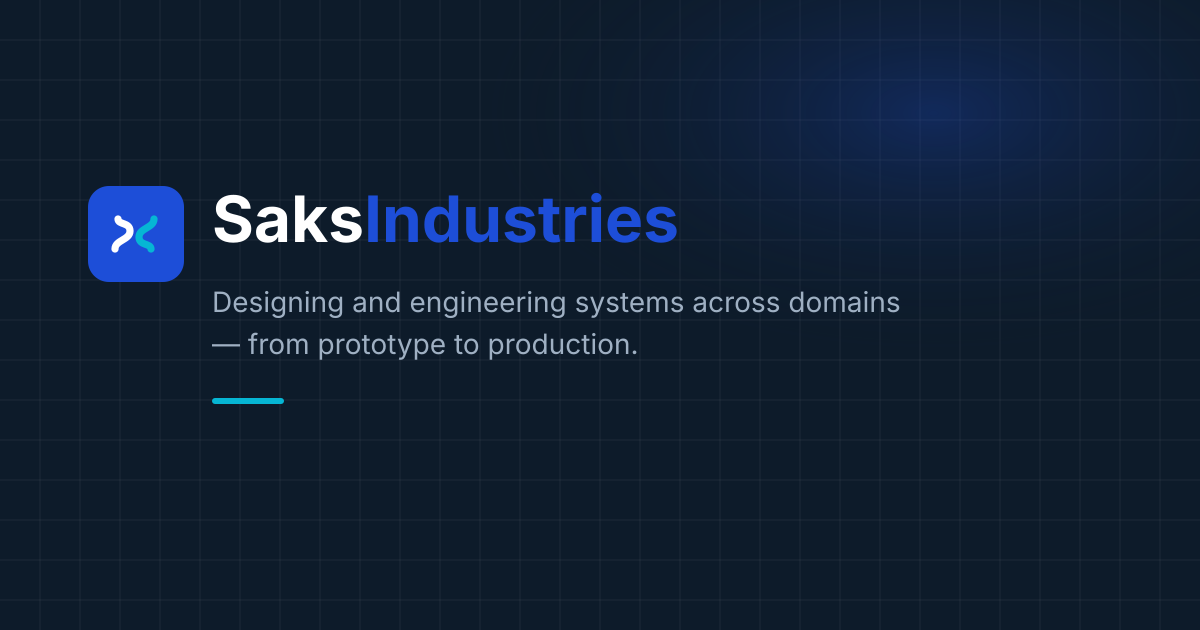
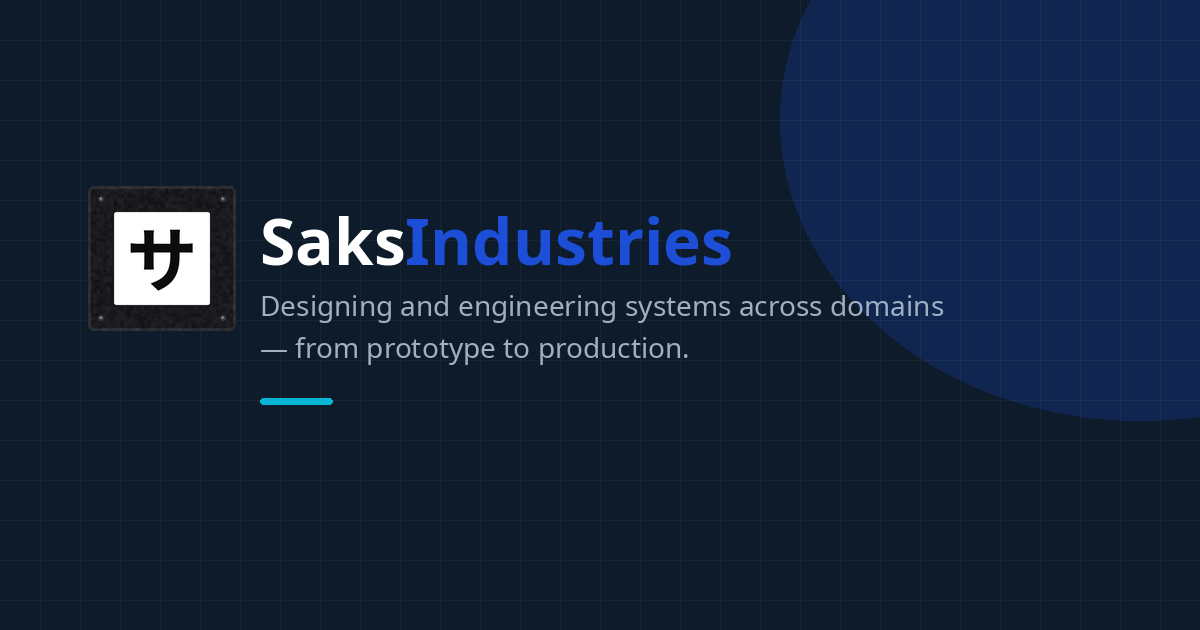
公式のサ銘板をヘッダー、フッター、アイコン、共有画像に使う
紺とシアンの自作マークを石目の銘板ラスターに置き換える。日本語の横組みは390pxのヘッダー1行に収まらないため、文字のワードマークは残す。

Changed region(s): [[0.0617, 0.0, 1.0, 0.6937], [0.6475, 0.0, 0.74, 0.0302], [0.185, 0.6333, 0.2775, 0.6635]]

diff --git a/site/assets/i18n.js b/site/assets/i18n.js
@@ -26,7 +26,8 @@
     "footer.privacy": "プライバシーポリシー",
     "footer.terms": "利用規約",
     "footer.news": "ニュース",
-    "footer.copyright": "© 2026 Saks Industries LLC. All rights reserved.",
+    "brand.home": "サックス・インダストリーズ合同会社のホーム",
+    "footer.copyright": "© 2026 サックス・インダストリーズ合同会社",
     "cta.getintouch": "お問い合わせ",
     "cta.viewproducts": "製品を見る",
     "cta.getquote": "見積もりを依頼",
@@ -37,8 +38,8 @@
     "about.desc": "Saks Industries は、分野を越えて動くシステムをつくるエンジニア、デザイナー、オペレーターのチームです。",
     "products.desc": "運用の現実に合わせて構成するシステム製品です。まずはお見積もりをご依頼ください。",
     "contact.desc": "プロジェクト、見積もり、パートナーシップについて Saks Industries へお問い合わせください。",
-    "privacy.desc": "Saks Industries LLC のプライバシーポリシー。",
-    "terms.desc": "Saks Industries LLC の利用規約。",
+    "privacy.desc": "サックス・インダストリーズ合同会社のプライバシーポリシー。",
+    "terms.desc": "サックス・インダストリーズ合同会社の利用規約。",
 
     // home
     "home.title": "Saks Industries — 多分野のためのシステム",
@@ -128,7 +129,7 @@
     "privacy.updated": "最終更新：2026年8月",
     "privacy.notice": "本ポリシーは個人情報の保護に関する法律（個人情報保護法）に基づく暫定文書であり、正式公表前に法務レビューを受ける予定です。",
     "privacy.s1.h": "1. 個人情報取扱事業者",
-    "privacy.s1.p": "Saks Industries LLC（以下「当社」）が本ポリシーに責任を持つ個人情報取扱事業者です。お問い合わせ先：hello@saks.industries",
+    "privacy.s1.p": "サックス・インダストリーズ合同会社（以下「当社」）が本ポリシーに責任を持つ個人情報取扱事業者です。お問い合わせ先：hello@saks.industries",
     "privacy.s2.h": "2. 収集する個人情報",
     "privacy.s2.p": "当社は、お問い合わせフォームまたはその他の手段でご連絡いただく際に、お名前・メールアドレス・メッセージ内容などの個人情報をご提供いただく場合があります。",
     "privacy.s3.h": "3. 利用目的",
@@ -155,15 +156,15 @@
     "terms.s1.h": "1. 同意",
     "terms.s1.p": "本ウェブサイト（以下「本サイト」）にアクセスまたは利用することにより、本利用規約に同意したものとみなします。同意いただけない場合は、本サイトのご利用をお控えください。",
     "terms.s2.h": "2. 運営者",
-    "terms.s2.p": "本サイトはSaks Industries LLCが運営しています。お問い合わせ先：hello@saks.industries",
+    "terms.s2.p": "本サイトはサックス・インダストリーズ合同会社が運営しています。お問い合わせ先：hello@saks.industries",
     "terms.s3.h": "3. 利用条件",
     "terms.s3.p": "本サイトは合法的な目的にのみご利用ください。当社の書面による事前承諾なく、本サイトのコンテンツを複製・再配布・商業目的で利用することを禁じます。",
     "terms.s4.h": "4. 知的財産権",
-    "terms.s4.p": "本サイト上のすべてのコンテンツ（テキスト・画像・ロゴ・ソフトウェア等）は、Saks Industries LLCまたはそのライセンサーに帰属し、適用される知的財産法により保護されています。",
+    "terms.s4.p": "本サイト上のすべてのコンテンツ（テキスト・画像・ロゴ・ソフトウェア等）は、サックス・インダストリーズ合同会社またはそのライセンサーに帰属し、適用される知的財産法により保護されています。",
     "terms.s5.h": "5. 免責事項",
     "terms.s5.p": "本サイトは「現状有姿」で提供されます。当社は、本サイトの中断・誤り・有害なコンポーネントの不存在について、明示・黙示を問わず保証しません。",
     "terms.s6.h": "6. 責任の制限",
-    "terms.s6.p": "適用法令が許容する範囲において、Saks Industries LLCは本サイトのご利用に起因する間接的・付随的・結果的損害について責任を負いません。",
+    "terms.s6.p": "適用法令が許容する範囲において、サックス・インダストリーズ合同会社は本サイトのご利用に起因する間接的・付随的・結果的損害について責任を負いません。",
     "terms.s7.h": "7. 準拠法・管轄裁判所",
     "terms.s7.p": "本規約は日本法に準拠します。紛争が生じた場合、東京地方裁判所を第一審の専属的合意管轄裁判所とします。",
     "terms.s8.h": "8. 変更",
@@ -188,6 +189,7 @@
   // Capture the authored English so we can restore it when toggling back.
   var enText = new WeakMap();
   var enAttr = new WeakMap();
+  var enAria = new WeakMap();
 
   function apply(lang) {
     document.documentElement.lang = lang;
@@ -208,6 +210,12 @@
       var key = el.getAttribute("data-i18n-content");
       if (!enAttr.has(el)) enAttr.set(el, el.getAttribute("content") || "");
       el.setAttribute("content", (lang === "ja" && JA[key] != null) ? JA[key] : enAttr.get(el));
+    });
+
+    document.querySelectorAll("[data-i18n-aria]").forEach(function (el) {
+      var key = el.getAttribute("data-i18n-aria");
+      if (!enAria.has(el)) enAria.set(el, el.getAttribute("aria-label") || "");
+      el.setAttribute("aria-label", (lang === "ja" && JA[key] != null) ? JA[key] : enAria.get(el));
     });
 
     var ogLocale = document.querySelector('meta[property="og:locale"]');

diff --git a/site/index.html b/site/index.html
@@ -24,9 +24,10 @@
   <meta name="twitter:image:alt" content="Saks Industries" />
   <link rel="preconnect" href="https://fonts.googleapis.com" />
   <link rel="stylesheet" href="assets/styles.css" />
-  <link rel="icon" href="assets/favicon.svg" type="image/svg+xml" />
-  <link rel="icon" href="assets/favicon-32.png" type="image/png" sizes="32x32" />
-  <link rel="apple-touch-icon" href="assets/apple-touch-icon.png" />
+  <link rel="icon" href="assets/saks-mark-32.png" type="image/png" sizes="32x32" />
+  <link rel="icon" href="assets/saks-mark-192.png" type="image/png" sizes="192x192" />
+  <link rel="icon" href="assets/saks-mark-512.png" type="image/png" sizes="512x512" />
+  <link rel="apple-touch-icon" href="assets/saks-mark-180.png" sizes="180x180" />
 </head>
 <body>
   <a class="skip-link" href="#main">Skip to content</a>
@@ -34,8 +35,8 @@
   <!-- ============ Shared header / nav ============ -->
   <header class="site-header">
     <div class="container nav">
-      <a class="brand" href="index.html" aria-label="Saks Industries home">
-        <svg class="brand-mark" viewBox="0 0 32 32" aria-hidden="true"><rect width="32" height="32" rx="7" fill="#1d4ed8"/><path d="M9 21c0-3 5-3 5-6s-4-2-4-4" stroke="white" stroke-width="2.4" fill="none" stroke-linecap="round"/><path d="M22 11c0 3-5 3-5 6s4 2 4 4" stroke="#06b6d4" stroke-width="2.4" fill="none" stroke-linecap="round"/></svg>
+      <a class="brand" href="index.html" aria-label="Saks Industries home" data-i18n-aria="brand.home">
+        <img class="brand-mark" src="assets/saks-mark.png" alt="" aria-hidden="true" width="40" height="40" decoding="async" />
         <span class="brand-name">Saks<span>Industries</span></span>
       </a>
       <button class="nav-toggle" type="button" aria-expanded="false" aria-controls="site-nav">
@@ -162,8 +163,8 @@
     <div class="container">
       <div class="footer-grid">
         <div>
-          <a class="brand" href="index.html" aria-label="Saks Industries home">
-            <svg class="brand-mark" viewBox="0 0 32 32" aria-hidden="true"><rect width="32" height="32" rx="7" fill="#1d4ed8"/><path d="M9 21c0-3 5-3 5-6s-4-2-4-4" stroke="white" stroke-width="2.4" fill="none" stroke-linecap="round"/><path d="M22 11c0 3-5 3-5 6s4 2 4 4" stroke="#06b6d4" stroke-width="2.4" fill="none" stroke-linecap="round"/></svg>
+          <a class="brand" href="index.html" aria-label="Saks Industries home" data-i18n-aria="brand.home">
+            <img class="brand-mark" src="assets/saks-mark.png" alt="" aria-hidden="true" width="40" height="40" decoding="async" />
             <span class="brand-name">Saks<span>Industries</span></span>
           </a>
           <p class="footer-desc" data-i18n="footer.tagline">Designing and engineering systems across domains — from prototype to production.</p>

diff --git a/site/about.html b/site/about.html
@@ -23,17 +23,18 @@
   <meta name="twitter:image" content="https://saks-industries.github.io/saks-corporate-netlify/assets/og.png" />
   <meta name="twitter:image:alt" content="Saks Industries" />
   <link rel="stylesheet" href="assets/styles.css" />
-  <link rel="icon" href="assets/favicon.svg" type="image/svg+xml" />
-  <link rel="icon" href="assets/favicon-32.png" type="image/png" sizes="32x32" />
-  <link rel="apple-touch-icon" href="assets/apple-touch-icon.png" />
+  <link rel="icon" href="assets/saks-mark-32.png" type="image/png" sizes="32x32" />
+  <link rel="icon" href="assets/saks-mark-192.png" type="image/png" sizes="192x192" />
+  <link rel="icon" href="assets/saks-mark-512.png" type="image/png" sizes="512x512" />
+  <link rel="apple-touch-icon" href="assets/saks-mark-180.png" sizes="180x180" />
 </head>
 <body>
   <a class="skip-link" href="#main">Skip to content</a>
 
   <header class="site-header">
     <div class="container nav">
-      <a class="brand" href="index.html" aria-label="Saks Industries home">
-        <svg class="brand-mark" viewBox="0 0 32 32" aria-hidden="true"><rect width="32" height="32" rx="7" fill="#1d4ed8"/><path d="M9 21c0-3 5-3 5-6s-4-2-4-4" stroke="white" stroke-width="2.4" fill="none" stroke-linecap="round"/><path d="M22 11c0 3-5 3-5 6s4 2 4 4" stroke="#06b6d4" stroke-width="2.4" fill="none" stroke-linecap="round"/></svg>
+      <a class="brand" href="index.html" aria-label="Saks Industries home" data-i18n-aria="brand.home">
+        <img class="brand-mark" src="assets/saks-mark.png" alt="" aria-hidden="true" width="40" height="40" decoding="async" />
         <span class="brand-name">Saks<span>Industries</span></span>
       </a>
       <button class="nav-toggle" type="button" aria-expanded="false" aria-controls="site-nav">
@@ -118,8 +119,8 @@
     <div class="container">
       <div class="footer-grid">
         <div>
-          <a class="brand" href="index.html" aria-label="Saks Industries home">
-            <svg class="brand-mark" viewBox="0 0 32 32" aria-hidden="true"><rect width="32" height="32" rx="7" fill="#1d4ed8"/><path d="M9 21c0-3 5-3 5-6s-4-2-4-4" stroke="white" stroke-width="2.4" fill="none" stroke-linecap="round"/><path d="M22 11c0 3-5 3-5 6s4 2 4 4" stroke="#06b6d4" stroke-width="2.4" fill="none" stroke-linecap="round"/></svg>
+          <a class="brand" href="index.html" aria-label="Saks Industries home" data-i18n-aria="brand.home">
+            <img class="brand-mark" src="assets/saks-mark.png" alt="" aria-hidden="true" width="40" height="40" decoding="async" />
             <span class="brand-name">Saks<span>Industries</span></span>
           </a>
           <p class="footer-desc" data-i18n="footer.tagline">Designing and engineering systems across domains — from prototype to production.</p>

diff --git a/site/contact.html b/site/contact.html
@@ -23,17 +23,18 @@
   <meta name="twitter:image" content="https://saks-industries.github.io/saks-corporate-netlify/assets/og.png" />
   <meta name="twitter:image:alt" content="Saks Industries" />
   <link rel="stylesheet" href="assets/styles.css" />
-  <link rel="icon" href="assets/favicon.svg" type="image/svg+xml" />
-  <link rel="icon" href="assets/favicon-32.png" type="image/png" sizes="32x32" />
-  <link rel="apple-touch-icon" href="assets/apple-touch-icon.png" />
+  <link rel="icon" href="assets/saks-mark-32.png" type="image/png" sizes="32x32" />
+  <link rel="icon" href="assets/saks-mark-192.png" type="image/png" sizes="192x192" />
+  <link rel="icon" href="assets/saks-mark-512.png" type="image/png" sizes="512x512" />
+  <link rel="apple-touch-icon" href="assets/saks-mark-180.png" sizes="180x180" />
 </head>
 <body>
   <a class="skip-link" href="#main">Skip to content</a>
 
   <header class="site-header">
     <div class="container nav">
-      <a class="brand" href="index.html" aria-label="Saks Industries home">
-        <svg class="brand-mark" viewBox="0 0 32 32" aria-hidden="true"><rect width="32" height="32" rx="7" fill="#1d4ed8"/><path d="M9 21c0-3 5-3 5-6s-4-2-4-4" stroke="white" stroke-width="2.4" fill="none" stroke-linecap="round"/><path d="M22 11c0 3-5 3-5 6s4 2 4 4" stroke="#06b6d4" stroke-width="2.4" fill="none" stroke-linecap="round"/></svg>
+      <a class="brand" href="index.html" aria-label="Saks Industries home" data-i18n-aria="brand.home">
+        <img class="brand-mark" src="assets/saks-mark.png" alt="" aria-hidden="true" width="40" height="40" decoding="async" />
         <span class="brand-name">Saks<span>Industries</span></span>
       </a>
       <button class="nav-toggle" type="button" aria-expanded="false" aria-controls="site-nav">
@@ -142,8 +143,8 @@
     <div class="container">
       <div class="footer-grid">
         <div>
-          <a class="brand" href="index.html" aria-label="Saks Industries home">
-            <svg class="brand-mark" viewBox="0 0 32 32" aria-hidden="true"><rect width="32" height="32" rx="7" fill="#1d4ed8"/><path d="M9 21c0-3 5-3 5-6s-4-2-4-4" stroke="white" stroke-width="2.4" fill="none" stroke-linecap="round"/><path d="M22 11c0 3-5 3-5 6s4 2 4 4" stroke="#06b6d4" stroke-width="2.4" fill="none" stroke-linecap="round"/></svg>
+          <a class="brand" href="index.html" aria-label="Saks Industries home" data-i18n-aria="brand.home">
+            <img class="brand-mark" src="assets/saks-mark.png" alt="" aria-hidden="true" width="40" height="40" decoding="async" />
             <span class="brand-name">Saks<span>Industries</span></span>
           </a>
           <p class="footer-desc" data-i18n="footer.tagline">Designing and engineering systems across domains — from prototype to production.</p>

diff --git a/site/privacy.html b/site/privacy.html
@@ -23,17 +23,18 @@
   <meta name="twitter:image" content="https://saks-industries.github.io/saks-corporate-netlify/assets/og.png" />
   <meta name="twitter:image:alt" content="Saks Industries" />
   <link rel="stylesheet" href="assets/styles.css" />
-  <link rel="icon" href="assets/favicon.svg" type="image/svg+xml" />
-  <link rel="icon" href="assets/favicon-32.png" type="image/png" sizes="32x32" />
-  <link rel="apple-touch-icon" href="assets/apple-touch-icon.png" />
+  <link rel="icon" href="assets/saks-mark-32.png" type="image/png" sizes="32x32" />
+  <link rel="icon" href="assets/saks-mark-192.png" type="image/png" sizes="192x192" />
+  <link rel="icon" href="assets/saks-mark-512.png" type="image/png" sizes="512x512" />
+  <link rel="apple-touch-icon" href="assets/saks-mark-180.png" sizes="180x180" />
 </head>
 <body>
   <a class="skip-link" href="#main">Skip to content</a>
 
   <header class="site-header">
     <div class="container nav">
-      <a class="brand" href="index.html" aria-label="Saks Industries home">
-        <svg class="brand-mark" viewBox="0 0 32 32" aria-hidden="true"><rect width="32" height="32" rx="7" fill="#1d4ed8"/><path d="M9 21c0-3 5-3 5-6s-4-2-4-4" stroke="white" stroke-width="2.4" fill="none" stroke-linecap="round"/><path d="M22 11c0 3-5 3-5 6s4 2 4 4" stroke="#06b6d4" stroke-width="2.4" fill="none" stroke-linecap="round"/></svg>
+      <a class="brand" href="index.html" aria-label="Saks Industries home" data-i18n-aria="brand.home">
+        <img class="brand-mark" src="assets/saks-mark.png" alt="" aria-hidden="true" width="40" height="40" decoding="async" />
         <span class="brand-name">Saks<span>Industries</span></span>
       </a>
       <button class="nav-toggle" type="button" aria-expanded="false" aria-controls="site-nav">
@@ -104,8 +105,8 @@
     <div class="container">
       <div class="footer-grid">
         <div>
-          <a class="brand" href="index.html" aria-label="Saks Industries home">
-            <svg class="brand-mark" viewBox="0 0 32 32" aria-hidden="true"><rect width="32" height="32" rx="7" fill="#1d4ed8"/><path d="M9 21c0-3 5-3 5-6s-4-2-4-4" stroke="white" stroke-width="2.4" fill="none" stroke-linecap="round"/><path d="M22 11c0 3-5 3-5 6s4 2 4 4" stroke="#06b6d4" stroke-width="2.4" fill="none" stroke-linecap="round"/></svg>
+          <a class="brand" href="index.html" aria-label="Saks Industries home" data-i18n-aria="brand.home">
+            <img class="brand-mark" src="assets/saks-mark.png" alt="" aria-hidden="true" width="40" height="40" decoding="async" />
             <span class="brand-name">Saks<span>Industries</span></span>
           </a>
           <p class="footer-desc" data-i18n="footer.tagline">Designing and engineering systems across domains — from prototype to production.</p>

diff --git a/site/terms.html b/site/terms.html
@@ -23,17 +23,18 @@
   <meta name="twitter:image" content="https://saks-industries.github.io/saks-corporate-netlify/assets/og.png" />
   <meta name="twitter:image:alt" content="Saks Industries" />
   <link rel="stylesheet" href="assets/styles.css" />
-  <link rel="icon" href="assets/favicon.svg" type="image/svg+xml" />
-  <link rel="icon" href="assets/favicon-32.png" type="image/png" sizes="32x32" />
-  <link rel="apple-touch-icon" href="assets/apple-touch-icon.png" />
+  <link rel="icon" href="assets/saks-mark-32.png" type="image/png" sizes="32x32" />
+  <link rel="icon" href="assets/saks-mark-192.png" type="image/png" sizes="192x192" />
+  <link rel="icon" href="assets/saks-mark-512.png" type="image/png" sizes="512x512" />
+  <link rel="apple-touch-icon" href="assets/saks-mark-180.png" sizes="180x180" />
 </head>
 <body>
   <a class="skip-link" href="#main">Skip to content</a>
 
   <header class="site-header">
     <div class="container nav">
-      <a class="brand" href="index.html" aria-label="Saks Industries home">
-        <svg class="brand-mark" viewBox="0 0 32 32" aria-hidden="true"><rect width="32" height="32" rx="7" fill="#1d4ed8"/><path d="M9 21c0-3 5-3 5-6s-4-2-4-4" stroke="white" stroke-width="2.4" fill="none" stroke-linecap="round"/><path d="M22 11c0 3-5 3-5 6s4 2 4 4" stroke="#06b6d4" stroke-width="2.4" fill="none" stroke-linecap="round"/></svg>
+      <a class="brand" href="index.html" aria-label="Saks Industries home" data-i18n-aria="brand.home">
+        <img class="brand-mark" src="assets/saks-mark.png" alt="" aria-hidden="true" width="40" height="40" decoding="async" />
         <span class="brand-name">Saks<span>Industries</span></span>
       </a>
       <button class="nav-toggle" type="button" aria-expanded="false" aria-controls="site-nav">
@@ -104,8 +105,8 @@
     <div class="container">
       <div class="footer-grid">
         <div>
-          <a class="brand" href="index.html" aria-label="Saks Industries home">
-            <svg class="brand-mark" viewBox="0 0 32 32" aria-hidden="true"><rect width="32" height="32" rx="7" fill="#1d4ed8"/><path d="M9 21c0-3 5-3 5-6s-4-2-4-4" stroke="white" stroke-width="2.4" fill="none" stroke-linecap="round"/><path d="M22 11c0 3-5 3-5 6s4 2 4 4" stroke="#06b6d4" stroke-width="2.4" fill="none" stroke-linecap="round"/></svg>
+          <a class="brand" href="index.html" aria-label="Saks Industries home" data-i18n-aria="brand.home">
+            <img class="brand-mark" src="assets/saks-mark.png" alt="" aria-hidden="true" width="40" height="40" decoding="async" />
             <span class="brand-name">Saks<span>Industries</span></span>
           </a>
           <p class="footer-desc" data-i18n="footer.tagline">Designing and engineering systems across domains — from prototype to production.</p>

diff --git a/site/products.html b/site/products.html
@@ -23,17 +23,18 @@
   <meta name="twitter:image" content="https://saks-industries.github.io/saks-corporate-netlify/assets/og.png" />
   <meta name="twitter:image:alt" content="Saks Industries" />
   <link rel="stylesheet" href="assets/styles.css" />
-  <link rel="icon" href="assets/favicon.svg" type="image/svg+xml" />
-  <link rel="icon" href="assets/favicon-32.png" type="image/png" sizes="32x32" />
-  <link rel="apple-touch-icon" href="assets/apple-touch-icon.png" />
+  <link rel="icon" href="assets/saks-mark-32.png" type="image/png" sizes="32x32" />
+  <link rel="icon" href="assets/saks-mark-192.png" type="image/png" sizes="192x192" />
+  <link rel="icon" href="assets/saks-mark-512.png" type="image/png" sizes="512x512" />
+  <link rel="apple-touch-icon" href="assets/saks-mark-180.png" sizes="180x180" />
 </head>
 <body>
   <a class="skip-link" href="#main">Skip to content</a>
 
   <header class="site-header">
     <div class="container nav">
-      <a class="brand" href="index.html" aria-label="Saks Industries home">
-        <svg class="brand-mark" viewBox="0 0 32 32" aria-hidden="true"><rect width="32" height="32" rx="7" fill="#1d4ed8"/><path d="M9 21c0-3 5-3 5-6s-4-2-4-4" stroke="white" stroke-width="2.4" fill="none" stroke-linecap="round"/><path d="M22 11c0 3-5 3-5 6s4 2 4 4" stroke="#06b6d4" stroke-width="2.4" fill="none" stroke-linecap="round"/></svg>
+      <a class="brand" href="index.html" aria-label="Saks Industries home" data-i18n-aria="brand.home">
+        <img class="brand-mark" src="assets/saks-mark.png" alt="" aria-hidden="true" width="40" height="40" decoding="async" />
         <span class="brand-name">Saks<span>Industries</span></span>
       </a>
       <button class="nav-toggle" type="button" aria-expanded="false" aria-controls="site-nav">
@@ -96,8 +97,8 @@
     <div class="container">
       <div class="footer-grid">
         <div>
-          <a class="brand" href="index.html" aria-label="Saks Industries home">
-            <svg class="brand-mark" viewBox="0 0 32 32" aria-hidden="true"><rect width="32" height="32" rx="7" fill="#1d4ed8"/><path d="M9 21c0-3 5-3 5-6s-4-2-4-4" stroke="white" stroke-width="2.4" fill="none" stroke-linecap="round"/><path d="M22 11c0 3-5 3-5 6s4 2 4 4" stroke="#06b6d4" stroke-width="2.4" fill="none" stroke-linecap="round"/></svg>
+          <a class="brand" href="index.html" aria-label="Saks Industries home" data-i18n-aria="brand.home">
+            <img class="brand-mark" src="assets/saks-mark.png" alt="" aria-hidden="true" width="40" height="40" decoding="async" />
             <span class="brand-name">Saks<span>Industries</span></span>
           </a>
           <p class="footer-desc" data-i18n="footer.tagline">Designing and engineering systems across domains — from prototype to production.</p>

diff --git a/site/404.html b/site/404.html
@@ -7,9 +7,10 @@
   <meta name="robots" content="noindex" />
   <meta name="theme-color" content="#1d4ed8" />
   <link rel="stylesheet" href="assets/styles.css" />
-  <link rel="icon" href="assets/favicon.svg" type="image/svg+xml" />
-  <link rel="icon" href="assets/favicon-32.png" type="image/png" sizes="32x32" />
-  <link rel="apple-touch-icon" href="assets/apple-touch-icon.png" />
+  <link rel="icon" href="assets/saks-mark-32.png" type="image/png" sizes="32x32" />
+  <link rel="icon" href="assets/saks-mark-192.png" type="image/png" sizes="192x192" />
+  <link rel="icon" href="assets/saks-mark-512.png" type="image/png" sizes="512x512" />
+  <link rel="apple-touch-icon" href="assets/saks-mark-180.png" sizes="180x180" />
   <style>
     .nf-wrap { min-height: 70vh; display: flex; align-items: center; }
     .nf-wrap .container { text-align: center; }

diff --git a/site/assets/styles.css b/site/assets/styles.css
@@ -137,7 +137,7 @@ p  { margin: 0 0 1em; }
 .nav.is-open { grid-template-areas: "brand toggle lang" "links links links"; }
 .brand { grid-area: brand; display: flex; align-items: center; gap: 10px; min-width: 0; }
 .brand:hover { text-decoration: none; }
-.brand-mark { width: 30px; height: 30px; flex: none; }
+.brand-mark { width: 40px; height: 40px; flex: none; object-fit: contain; }
 .brand-name {
   font-weight: 800; color: var(--ink); letter-spacing: -.01em; font-size: 1.12rem;
   min-width: 0; overflow: hidden; text-overflow: ellipsis; white-space: nowrap;
